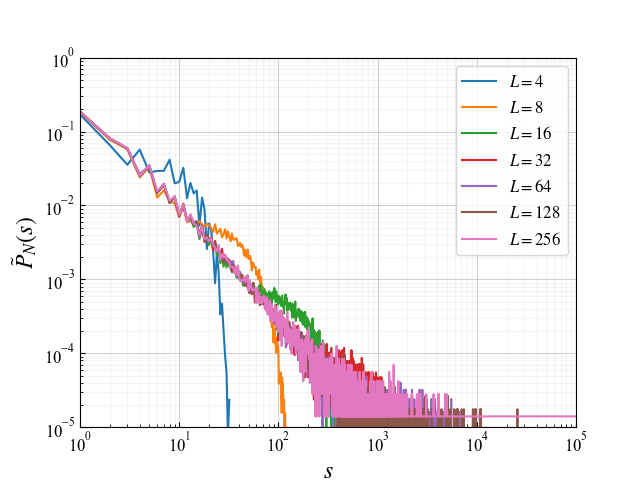
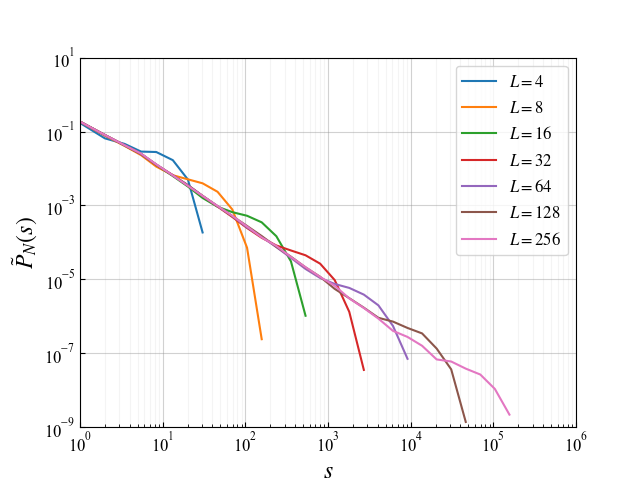
Fixed Task 3a - did a proper data collapse

diff --git a/main.py b/main.py
@@ -907,13 +907,13 @@ def task_3_a(compute=True, plot=False):
         
     if plot:
         avalanches = np.load('Task 3a.npy', allow_pickle=True)
-        x_4, y_4 = logbin(avalanches[0])
-        x_8, y_8 = logbin(avalanches[1])
-        x_16, y_16 = logbin(avalanches[2])
-        x_32, y_32 = logbin(avalanches[3])
-        x_64, y_64 = logbin(avalanches[4])
-        x_128, y_128 = logbin(avalanches[5])
-        x_256, y_256 = logbin(avalanches[6])
+        x_4, y_4 = logbin(avalanches[0], scale=1.5)
+        x_8, y_8 = logbin(avalanches[1], scale=1.5)
+        x_16, y_16 = logbin(avalanches[2], scale=1.5)
+        x_32, y_32 = logbin(avalanches[3], scale=1.5)
+        x_64, y_64 = logbin(avalanches[4], scale=1.5)
+        x_128, y_128 = logbin(avalanches[5], scale=1.5)
+        x_256, y_256 = logbin(avalanches[6], scale=1.5)
 
         fig, ax = plt.subplots()
         params = {'legend.fontsize': 12}
@@ -942,8 +942,8 @@ def task_3_a(compute=True, plot=False):
         plt.grid(b=True, which='minor', color='#999999', linestyle='-', alpha=0.1)
         plt.xticks(fontsize=12, fontname='Times New Roman')
         plt.yticks(fontsize=12, fontname='Times New Roman')
-        plt.xlim(1, 1e5)
-        plt.ylim(10e-6, 1)
+        plt.xlim(1, 1e6)
+        plt.ylim(10e-10, 10)
         plt.savefig('Plots/Task3/task3a_a_i.png')
         plt.show()
 
@@ -988,8 +988,9 @@ def task_3_a(compute=True, plot=False):
         plt.savefig('Plots/Task3/task3a_b_i.png')
         plt.show()
 
-        s_256_log = np.log(x_256[:170])
-        y_256_log = np.log(y_256[:170])
+        x_256_1, y_256_1 = logbin(avalanches[6], scale=1)
+        s_256_log = np.log(x_256_1[:170])
+        y_256_log = np.log(y_256_1[:170])
 
         fig, ax = plt.subplots()
         params = {'legend.fontsize': 12}
@@ -1065,7 +1066,7 @@ def task_3_a(compute=True, plot=False):
         plt.xticks(fontsize=12, fontname='Times New Roman')
         plt.yticks(fontsize=12, fontname='Times New Roman')
         plt.xlim(10e-5, 10)
-        plt.ylim(10e-3, 1e4)
+        plt.ylim(10e-4, 1)
         plt.savefig('Plots/Task3/task3a_b_iii.png')
         plt.show()
 
